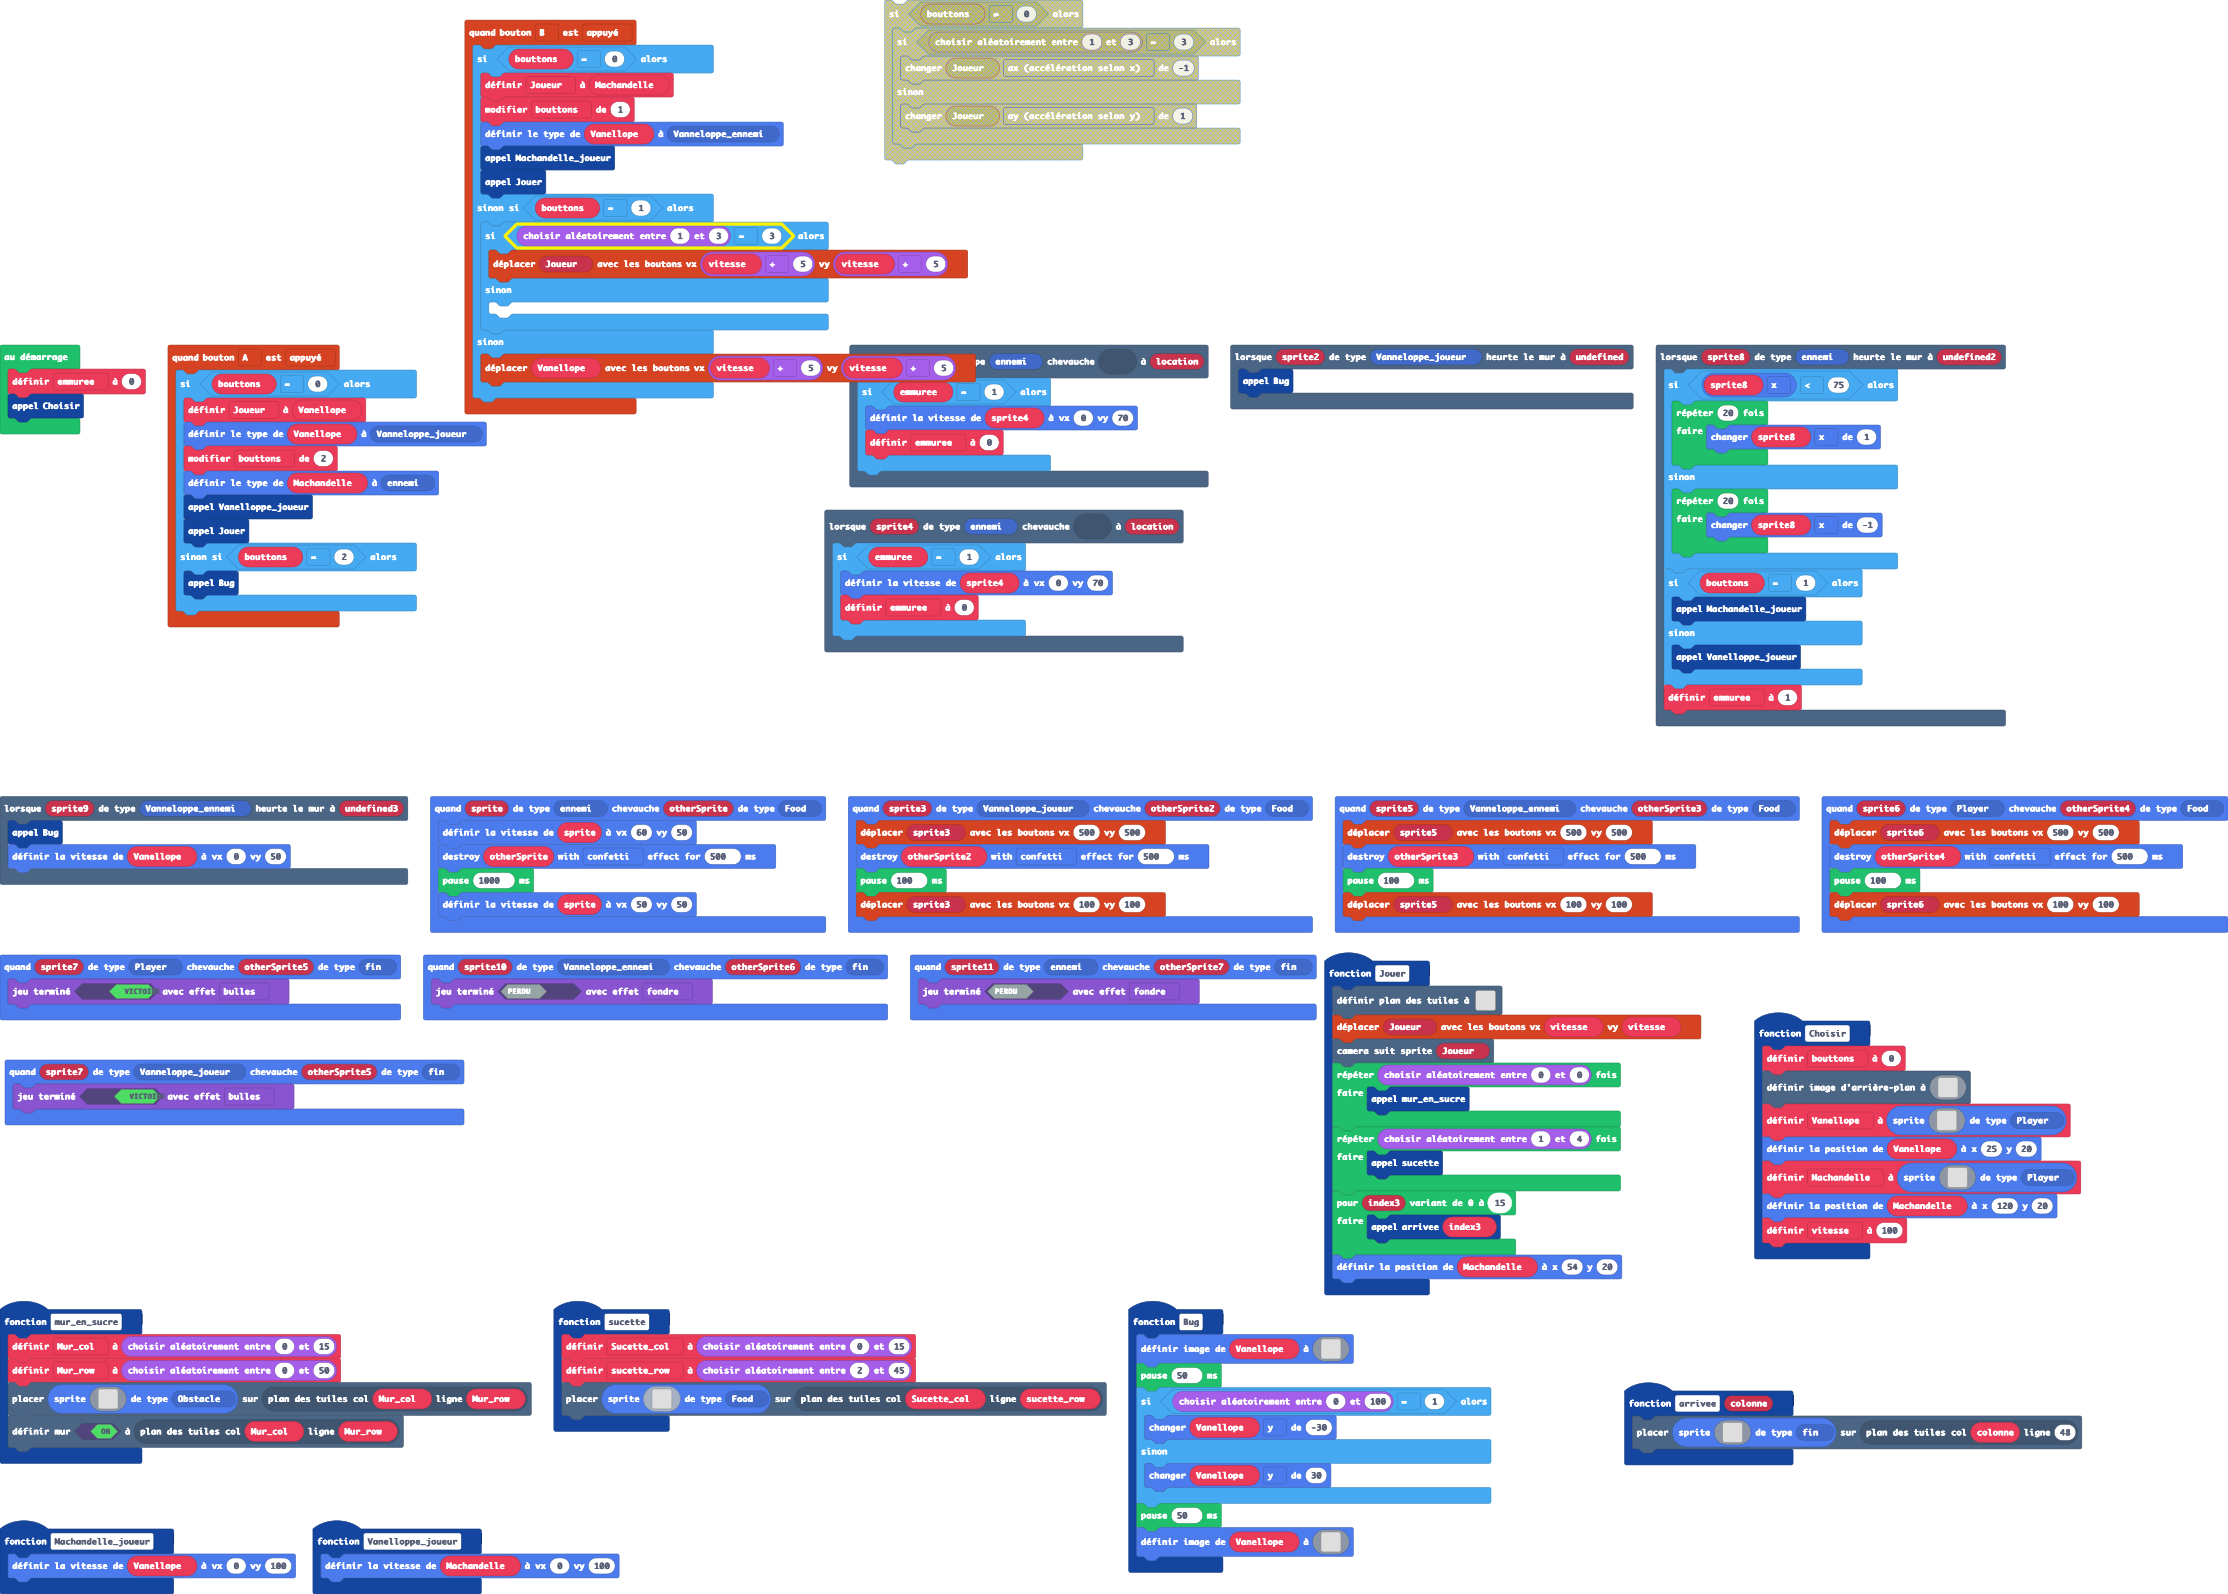
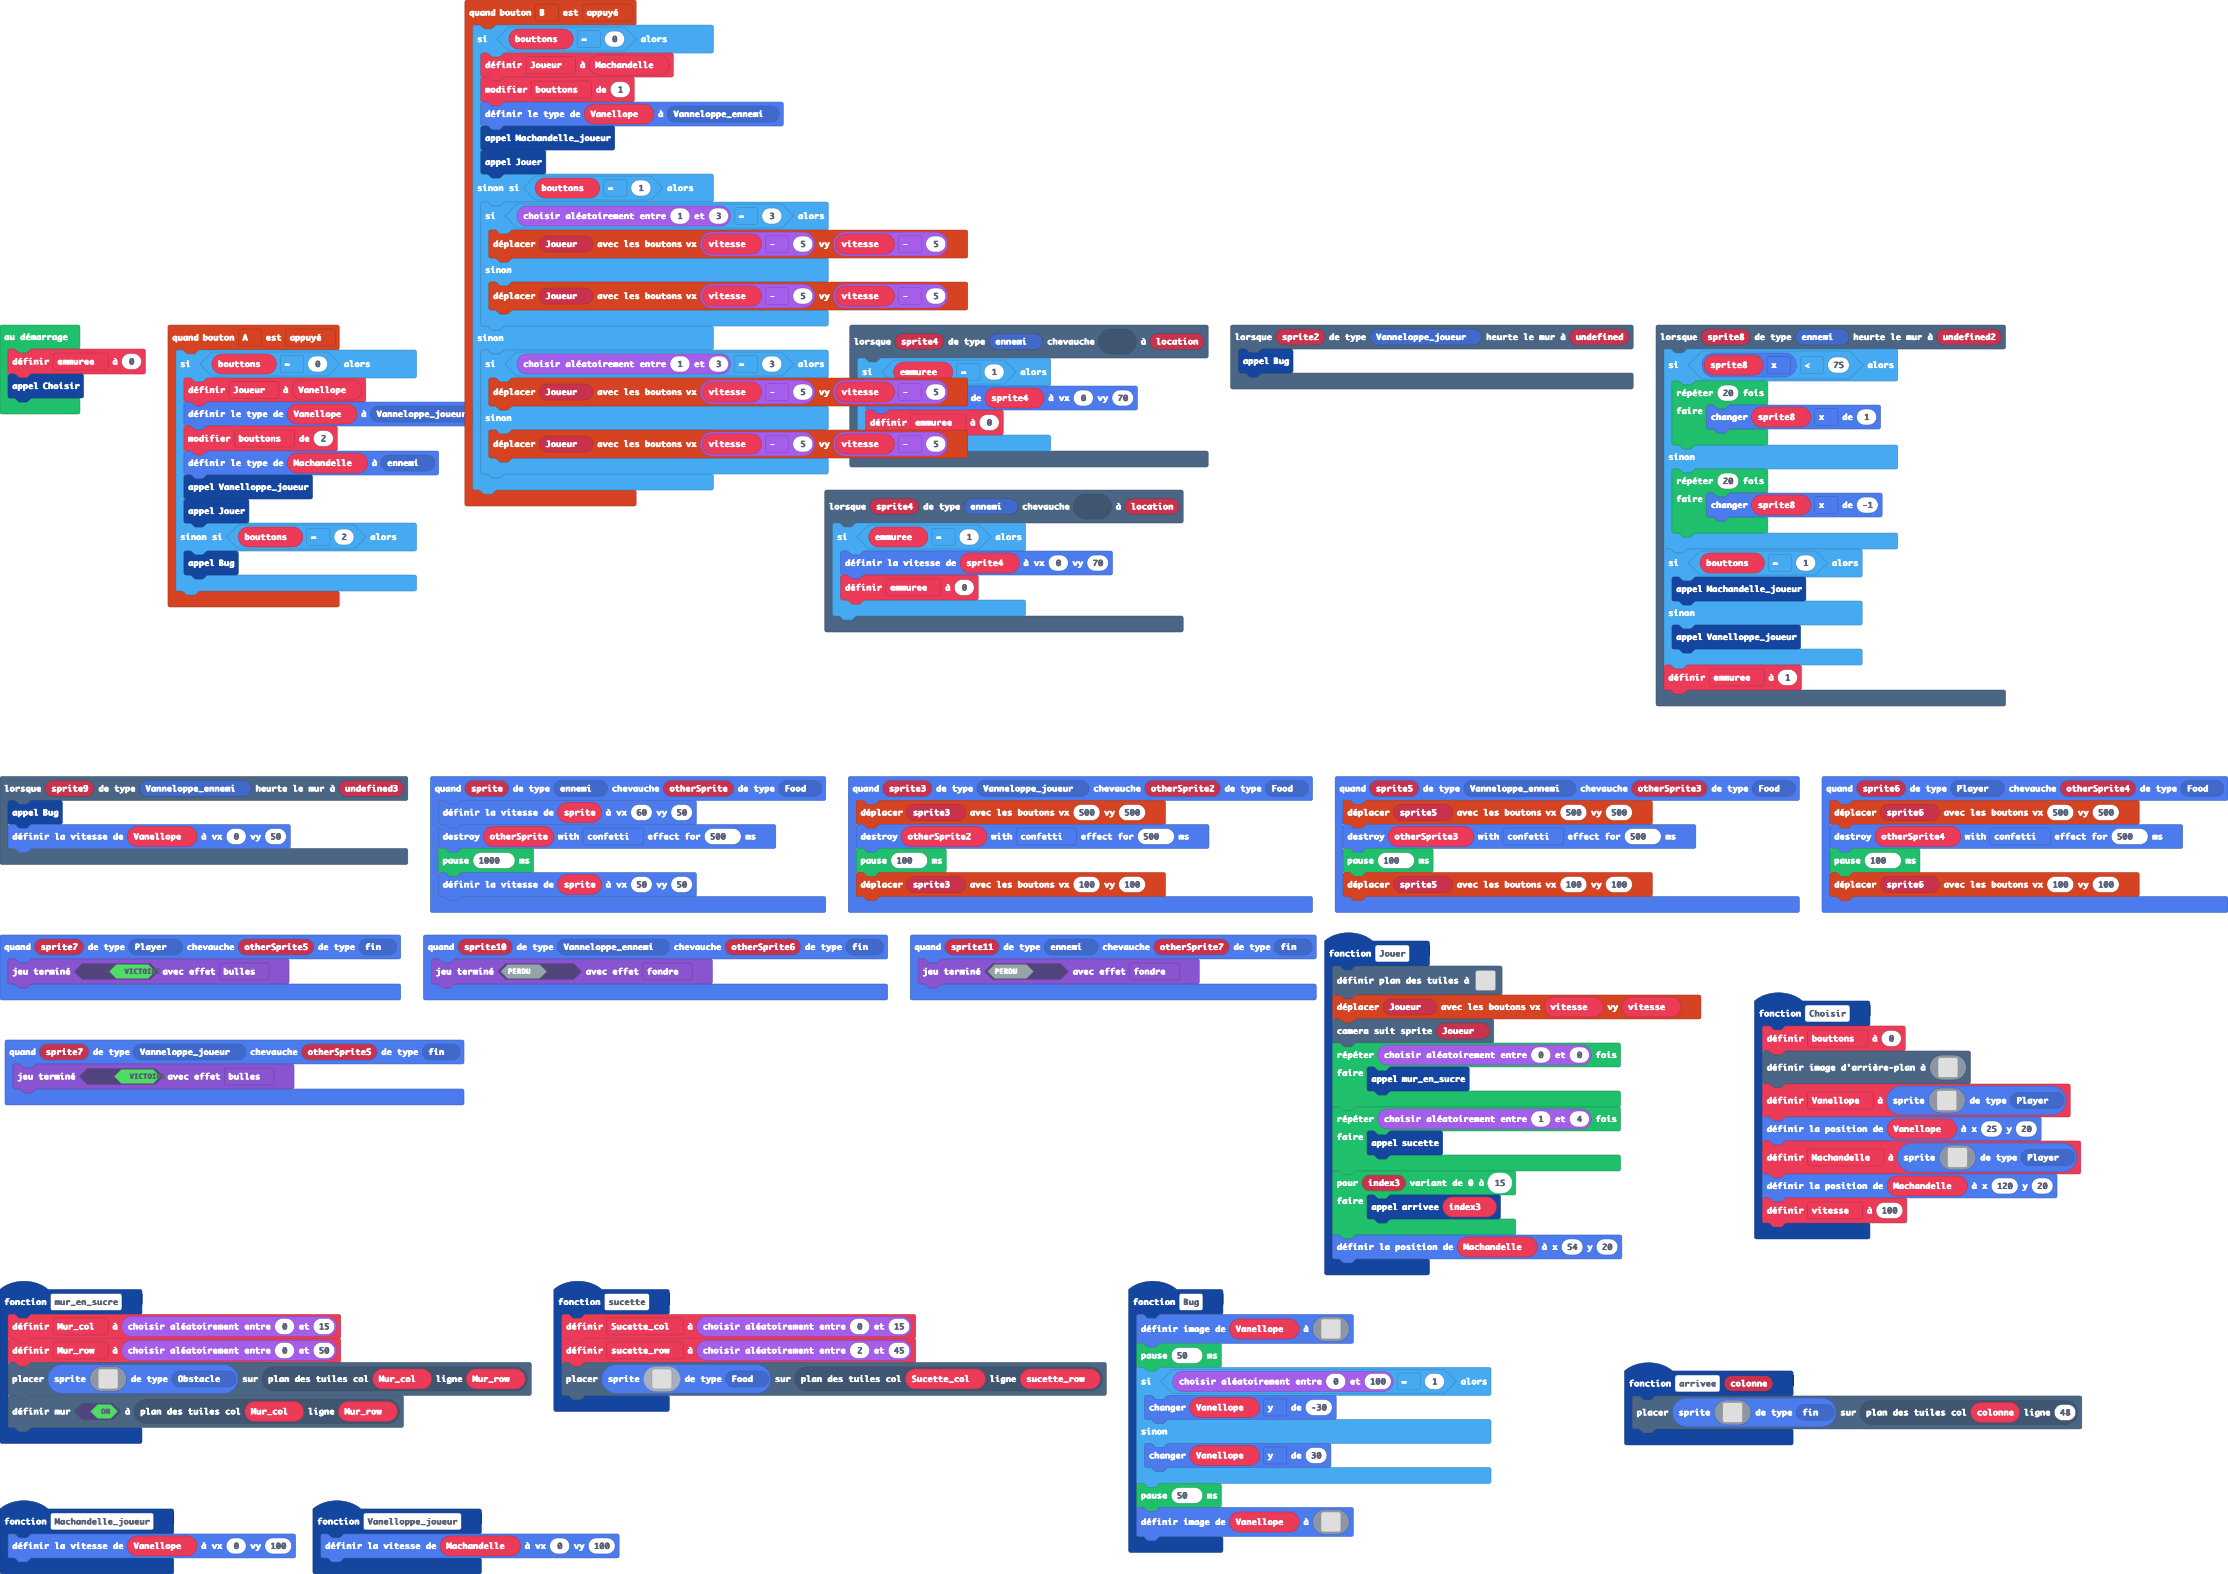
Mise à jour main.blocks, main.ts

diff --git a/main.ts b/main.ts
@@ -157,12 +157,16 @@ controller.B.onEvent(ControllerButtonEvent.Pressed, function () {
         Jouer()
     } else if (bouttons == 1) {
         if (randint(1, 3) == 3) {
-            controller.moveSprite(Joueur, vitesse + 5, vitesse + 5)
+            controller.moveSprite(Joueur, vitesse - 5, vitesse - 5)
         } else {
-        	
+            controller.moveSprite(Joueur, vitesse - 5, vitesse - 5)
         }
     } else {
-        controller.moveSprite(Vanellope, vitesse + 5, vitesse + 5)
+        if (randint(1, 3) == 3) {
+            controller.moveSprite(Joueur, vitesse - 5, vitesse - 5)
+        } else {
+            controller.moveSprite(Joueur, vitesse - 5, vitesse - 5)
+        }
     }
 })
 function mur_en_sucre () {
